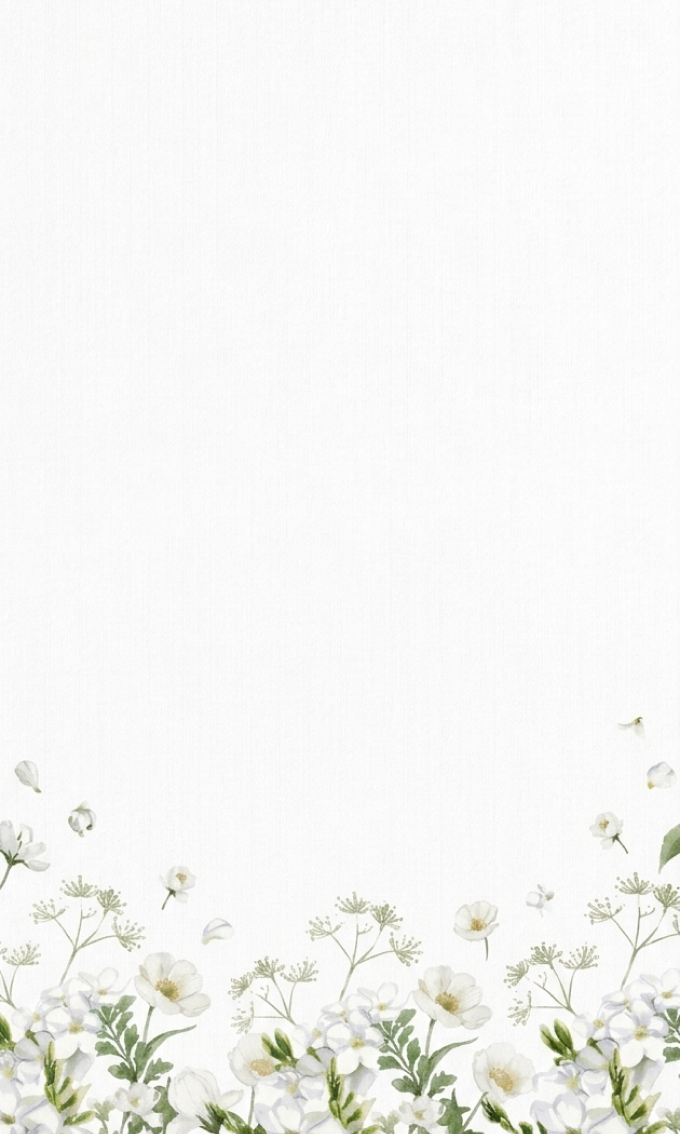
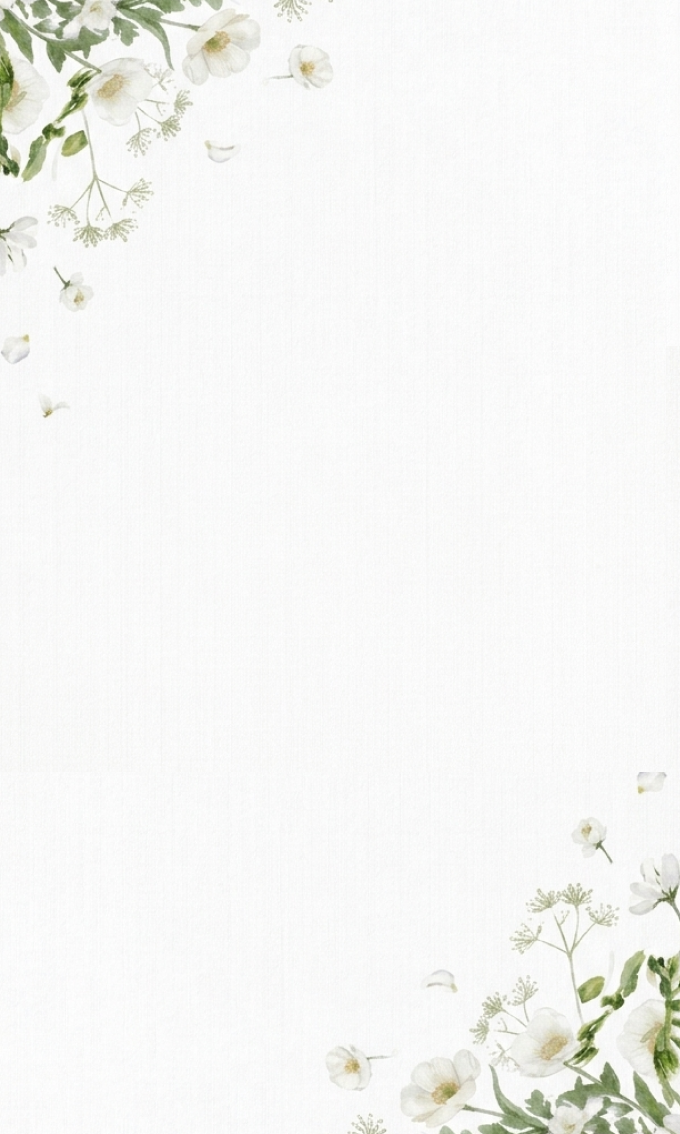
White Roses: the bottom-flowers picture is now the RSVP background; the details screen gets the new corner-flowers picture; spacing of both adjusted

diff --git a/app/globals.css b/app/globals.css
@@ -726,11 +726,12 @@ body:has(.rsvp-bg) .music-btn { display:none; }
 .inv[data-template="white-roses"] .card-sheet .arch { height:36cqh; width:calc(36cqh * 3 / 4); }
 .inv[data-template="white-roses"] .venue-in { padding:10cqh 9cqw 8cqh; }
 .inv[data-template="white-roses"] .tl-in { padding:14cqh 9cqw 10cqh; }
-/* screen 5 has flowers along its bottom third (bg-details.webp): the text block stays above them, centred in the space under the title */
-.inv[data-template="white-roses"] .dtl-in { padding:14cqh 9cqw 24cqh; gap:2cqh; }
+/* screen 5 has flowers in two corners (top left, bottom right) in bg-details.webp: the text block is centred between them */
+.inv[data-template="white-roses"] .dtl-in { padding:14cqh 9cqw 18cqh; gap:2cqh; }
 .inv[data-template="white-roses"] .dtl-row { gap:3.4cqh; }
 .inv[data-template="white-roses"] .dtl-row .qr { width:calc(72px * var(--k,1)); height:calc(72px * var(--k,1)); }
-.inv[data-template="white-roses"] .rsvp-in { padding:18cqh 9cqw 8cqh; }
+/* screen 6 (bg-rsvp.webp) has flowers along its bottom third: the reply block stays above them */
+.inv[data-template="white-roses"] .rsvp-in { padding:14cqh 9cqw 8cqh; }
 .inv[data-template="white-roses"] .closing-in { padding:16cqw 12cqw; }
 
 /* the reply form inside this design */
